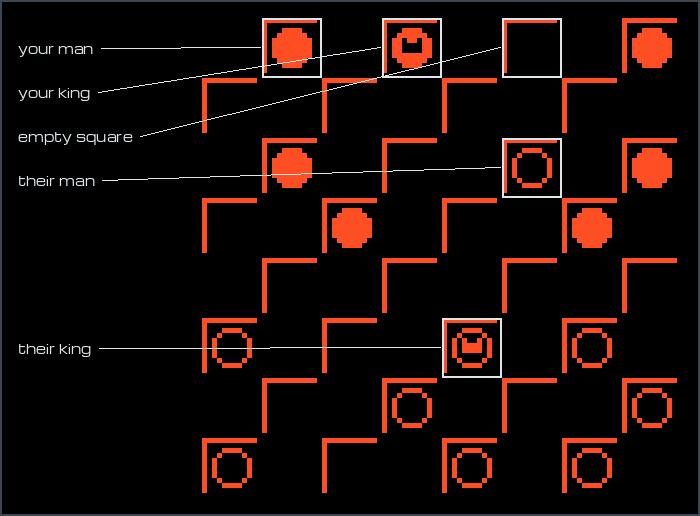
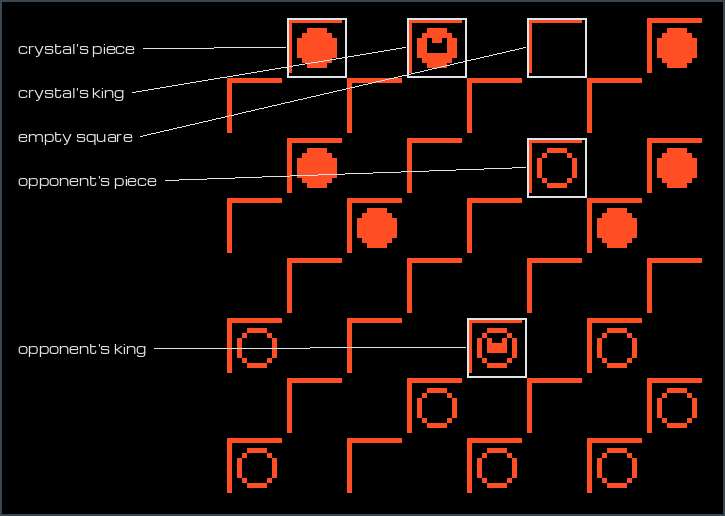
Checkers picture: label the crystal's and the opponent's pieces

diff --git a/examples/input_output.py b/examples/input_output.py
@@ -84,7 +84,7 @@ elif problem == "checkers":
     sq, _ = ck.view(pos)
     def cell(s): r = s >> 2; c = 2 * (s & 3) + (1 - (r & 1)); return c * T, r * T
     marks = []
-    for want, label in ((1, "your man"), (2, "your king"), (-1, "their man"), (-2, "their king"), (0, "empty square")):
+    for want, label in ((1, "crystal's piece"), (2, "crystal's king"), (-1, "opponent's piece"), (-2, "opponent's king"), (0, "empty square")):   # the crystal is always the side to move
         s = next((i for i in range(32) if sq[i] == want), None)
         if s is not None: marks.append((cell(s), label))
     LF = font(13)
